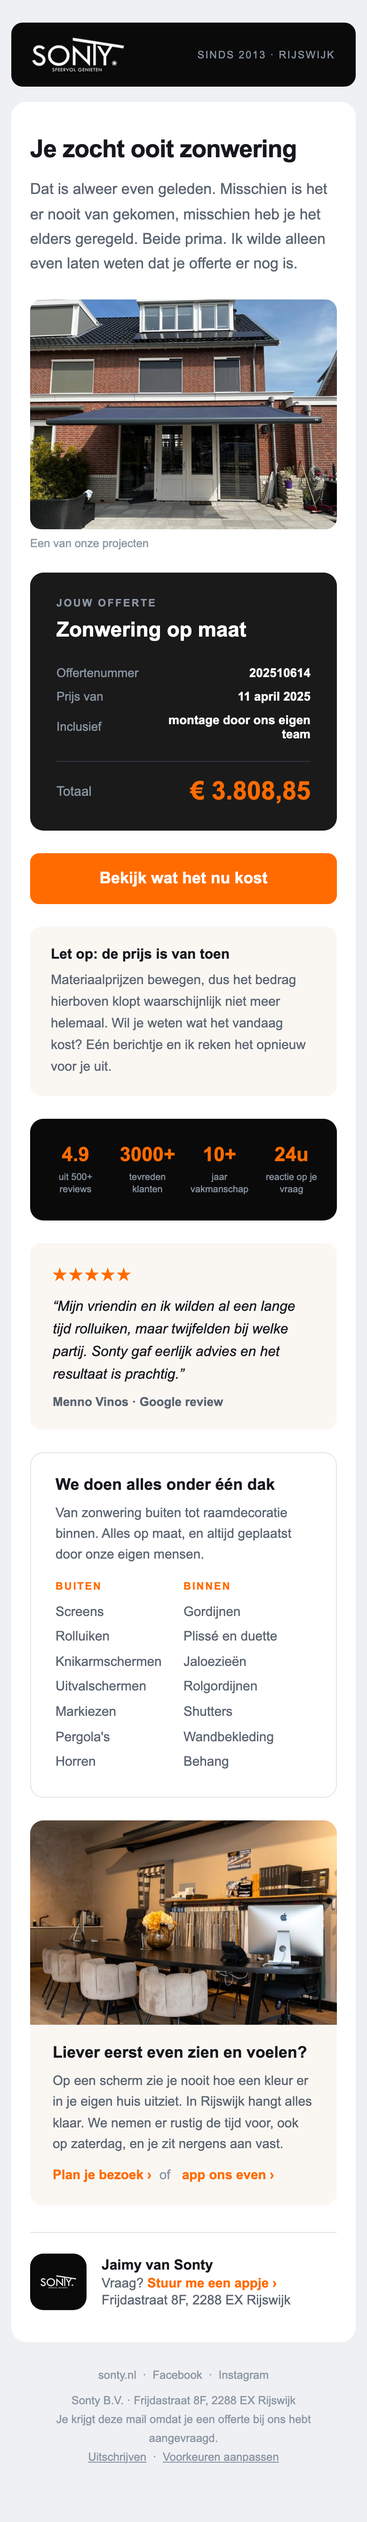
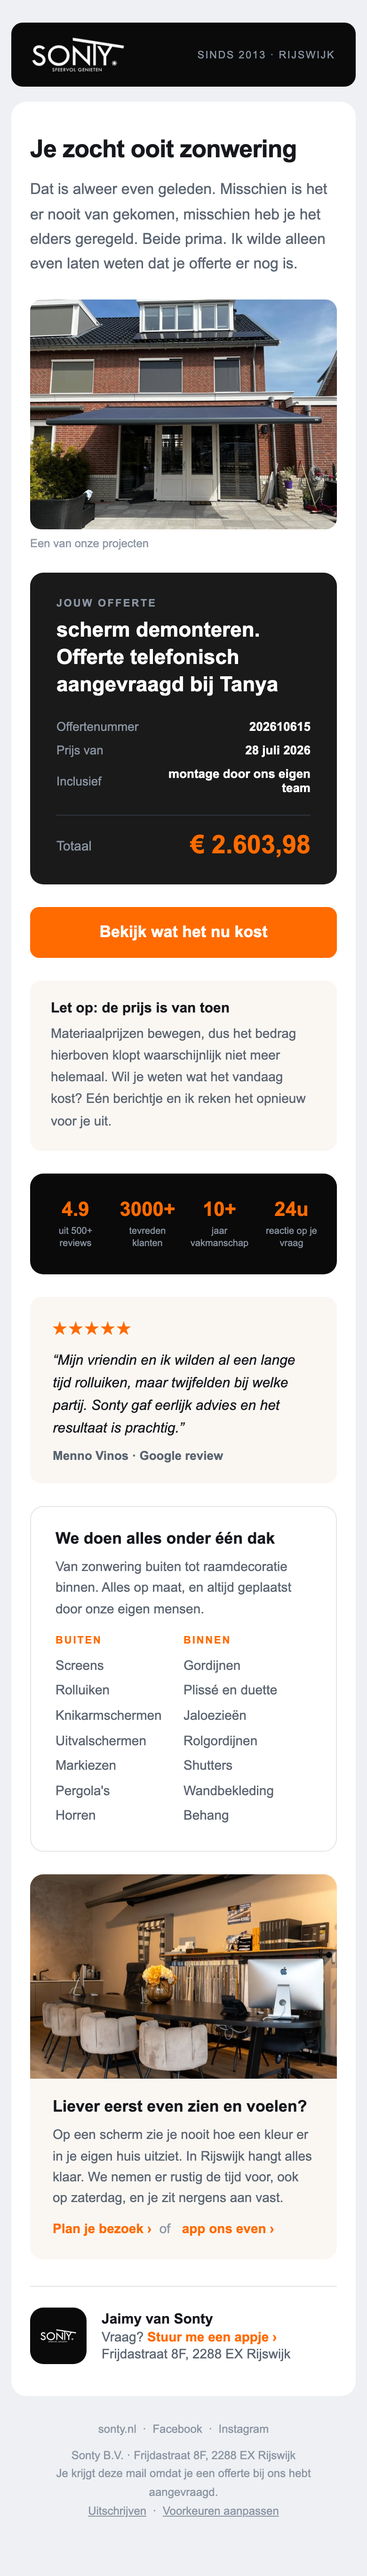
Mailmarketing: bestaand e-mailsysteem gekoppeld aan strategie-docs, verse previews, QA-ronde

Changed region(s): [[0.0615, 0.0, 0.9231, 0.9978]]

diff --git a/scripts/email/previews-echt/sonty-weer-hitte__langste-productnaam.html b/scripts/email/previews-echt/sonty-weer-hitte__langste-productnaam.html
@@ -56,26 +56,26 @@
    <tr><td class="paper" style="background:#ffffff;border-radius:16px;">
      <table role="presentation" width="100%" cellpadding="0" cellspacing="0" border="0">
        <tr><td class="pad" style="padding:34px 36px 0;">
-         <h1 class="kop t-donker" style="margin:0;font-family:Figtree,Inter,-apple-system,'Segoe UI',Arial,sans-serif;font-size:30px;line-height:1.2;font-weight:800;color:#16181d;letter-spacing:-0.5px;">Het wordt warm, Anouk</h1>
+         <h1 class="kop t-donker" style="margin:0;font-family:Figtree,Inter,-apple-system,'Segoe UI',Arial,sans-serif;font-size:30px;line-height:1.2;font-weight:800;color:#16181d;letter-spacing:-0.5px;">Het wordt warm, daar</h1>
          <p class="t-zacht" style="margin:14px 0 0;font-family:Figtree,Inter,-apple-system,'Segoe UI',Arial,sans-serif;font-size:16px;line-height:1.65;color:#5b6470;">Even een seintje: woensdag loopt het op naar 32,2 graden. Precies het weer waarvoor je destijds je offerte hebt aangevraagd.</p>
        </td></tr>
        <tr><td class="pad" style="padding:24px 36px 0;">
 <table role="presentation" width="100%" cellpadding="0" cellspacing="0" border="0" style="background:#1a1a1a;border-radius:14px;">
  <tr><td style="padding:26px 28px;font-family:Figtree,Inter,-apple-system,'Segoe UI',Arial,sans-serif;">
    <div style="color:#8b95a3;font-size:11px;letter-spacing:1.6px;text-transform:uppercase;font-weight:700;">Jouw offerte</div>
-   <div style="color:#ffffff;font-size:22px;font-weight:700;padding-top:9px;line-height:1.3;">Zonwering op maat</div>
+   <div style="color:#ffffff;font-size:22px;font-weight:700;padding-top:9px;line-height:1.3;">scherm demonteren. Offerte telefonisch aangevraagd bij Tanya</div>
    <table role="presentation" width="100%" cellpadding="0" cellspacing="0" border="0" style="padding-top:18px;">
      <tr><td style="font-family:Figtree,Inter,-apple-system,'Segoe UI',Arial,sans-serif;color:#8b95a3;font-size:13px;padding:5px 0;">Offertenummer</td>
-         <td align="right" style="font-family:Figtree,Inter,-apple-system,'Segoe UI',Arial,sans-serif;color:#ffffff;font-size:13px;font-weight:600;padding:5px 0;">202510614</td></tr>
+         <td align="right" style="font-family:Figtree,Inter,-apple-system,'Segoe UI',Arial,sans-serif;color:#ffffff;font-size:13px;font-weight:600;padding:5px 0;">202610615</td></tr>
      <tr><td style="font-family:Figtree,Inter,-apple-system,'Segoe UI',Arial,sans-serif;color:#8b95a3;font-size:13px;padding:5px 0;">Prijs van</td>
-         <td align="right" style="font-family:Figtree,Inter,-apple-system,'Segoe UI',Arial,sans-serif;color:#ffffff;font-size:13px;font-weight:600;padding:5px 0;">11 april 2025</td></tr>
+         <td align="right" style="font-family:Figtree,Inter,-apple-system,'Segoe UI',Arial,sans-serif;color:#ffffff;font-size:13px;font-weight:600;padding:5px 0;">28 juli 2026</td></tr>
      <tr><td style="font-family:Figtree,Inter,-apple-system,'Segoe UI',Arial,sans-serif;color:#8b95a3;font-size:13px;padding:5px 0;">Inclusief</td>
          <td align="right" style="font-family:Figtree,Inter,-apple-system,'Segoe UI',Arial,sans-serif;color:#ffffff;font-size:13px;font-weight:600;padding:5px 0;">montage door ons eigen team</td></tr>
    </table>
    <div style="border-top:1px solid #2e3440;margin-top:16px;padding-top:16px;">
      <table role="presentation" width="100%" cellpadding="0" cellspacing="0" border="0">
        <tr><td style="font-family:Figtree,Inter,-apple-system,'Segoe UI',Arial,sans-serif;color:#8b95a3;font-size:14px;">Totaal</td>
-           <td align="right" style="font-family:Figtree,Inter,-apple-system,'Segoe UI',Arial,sans-serif;color:#FF6B00;font-size:27px;font-weight:800;">€ 3.808,85</td></tr>
+           <td align="right" style="font-family:Figtree,Inter,-apple-system,'Segoe UI',Arial,sans-serif;color:#FF6B00;font-size:27px;font-weight:800;">€ 2.603,98</td></tr>
      </table>
    </div>
  </td></tr>
@@ -83,8 +83,8 @@
 <tr><td class="pad" style="padding:24px 36px 0;">
 <table role="presentation" cellpadding="0" cellspacing="0" border="0" style="margin:0 auto;" class="knoptabel">
  <tr><td align="center" bgcolor="#FF6B00" style="border-radius:10px;">
-  <!--[if mso]><v:roundrect xmlns:v="urn:schemas-microsoft-com:vml" xmlns:w="urn:schemas-microsoft-com:office:word" href="https://document.reuzenpanda.nl/nl/731483fa-ef6b-4aae-afcf-883ec09219dd/64ec8906-2a6a-46c8-a0e5-ef40c97f2af6/latest?pdfAction=DOCSIGN" style="height:54px;v-text-anchor:middle;width:320px;" arcsize="18%" stroke="f" fillcolor="#FF6B00"><w:anchorlock/><center style="color:#ffffff;font-family:Arial,sans-serif;font-size:17px;font-weight:bold;"><![endif]-->
-  <a href="https://document.reuzenpanda.nl/nl/731483fa-ef6b-4aae-afcf-883ec09219dd/64ec8906-2a6a-46c8-a0e5-ef40c97f2af6/latest?pdfAction=DOCSIGN" style="background:#FF6B00;border-radius:10px;color:#ffffff;display:inline-block;font-family:Figtree,Inter,-apple-system,'Segoe UI',Arial,sans-serif;font-size:17px;font-weight:700;line-height:54px;text-align:center;text-decoration:none;width:320px;-webkit-text-size-adjust:none;">Bekijk je offerte</a>
+  <!--[if mso]><v:roundrect xmlns:v="urn:schemas-microsoft-com:vml" xmlns:w="urn:schemas-microsoft-com:office:word" href="https://document.reuzenpanda.nl/nl/731483fa-ef6b-4aae-afcf-883ec09219dd/5cedf2dc-a729-49ee-8614-ffe1b22a28ba/latest?pdfAction=DOCSIGN" style="height:54px;v-text-anchor:middle;width:320px;" arcsize="18%" stroke="f" fillcolor="#FF6B00"><w:anchorlock/><center style="color:#ffffff;font-family:Arial,sans-serif;font-size:17px;font-weight:bold;"><![endif]-->
+  <a href="https://document.reuzenpanda.nl/nl/731483fa-ef6b-4aae-afcf-883ec09219dd/5cedf2dc-a729-49ee-8614-ffe1b22a28ba/latest?pdfAction=DOCSIGN" style="background:#FF6B00;border-radius:10px;color:#ffffff;display:inline-block;font-family:Figtree,Inter,-apple-system,'Segoe UI',Arial,sans-serif;font-size:17px;font-weight:700;line-height:54px;text-align:center;text-decoration:none;width:320px;-webkit-text-size-adjust:none;">Bekijk je offerte</a>
   <!--[if mso]></center></v:roundrect><![endif]-->
  </td></tr>
 </table></td></tr>

diff --git a/scripts/email/previews-echt/sonty-rp-offerte__langste-productnaam.html b/scripts/email/previews-echt/sonty-rp-offerte__langste-productnaam.html
@@ -63,19 +63,19 @@
 <table role="presentation" width="100%" cellpadding="0" cellspacing="0" border="0" style="background:#1a1a1a;border-radius:14px;">
  <tr><td style="padding:26px 28px;font-family:Figtree,Inter,-apple-system,'Segoe UI',Arial,sans-serif;">
    <div style="color:#8b95a3;font-size:11px;letter-spacing:1.6px;text-transform:uppercase;font-weight:700;">Jouw offerte</div>
-   <div style="color:#ffffff;font-size:22px;font-weight:700;padding-top:9px;line-height:1.3;">Zonwering op maat</div>
+   <div style="color:#ffffff;font-size:22px;font-weight:700;padding-top:9px;line-height:1.3;">scherm demonteren. Offerte telefonisch aangevraagd bij Tanya</div>
    <table role="presentation" width="100%" cellpadding="0" cellspacing="0" border="0" style="padding-top:18px;">
      <tr><td style="font-family:Figtree,Inter,-apple-system,'Segoe UI',Arial,sans-serif;color:#8b95a3;font-size:13px;padding:5px 0;">Offertenummer</td>
-         <td align="right" style="font-family:Figtree,Inter,-apple-system,'Segoe UI',Arial,sans-serif;color:#ffffff;font-size:13px;font-weight:600;padding:5px 0;">202510614</td></tr>
+         <td align="right" style="font-family:Figtree,Inter,-apple-system,'Segoe UI',Arial,sans-serif;color:#ffffff;font-size:13px;font-weight:600;padding:5px 0;">202610615</td></tr>
      <tr><td style="font-family:Figtree,Inter,-apple-system,'Segoe UI',Arial,sans-serif;color:#8b95a3;font-size:13px;padding:5px 0;">Prijs van</td>
-         <td align="right" style="font-family:Figtree,Inter,-apple-system,'Segoe UI',Arial,sans-serif;color:#ffffff;font-size:13px;font-weight:600;padding:5px 0;">11 april 2025</td></tr>
+         <td align="right" style="font-family:Figtree,Inter,-apple-system,'Segoe UI',Arial,sans-serif;color:#ffffff;font-size:13px;font-weight:600;padding:5px 0;">28 juli 2026</td></tr>
      <tr><td style="font-family:Figtree,Inter,-apple-system,'Segoe UI',Arial,sans-serif;color:#8b95a3;font-size:13px;padding:5px 0;">Inclusief</td>
          <td align="right" style="font-family:Figtree,Inter,-apple-system,'Segoe UI',Arial,sans-serif;color:#ffffff;font-size:13px;font-weight:600;padding:5px 0;">montage door ons eigen team</td></tr>
    </table>
    <div style="border-top:1px solid #2e3440;margin-top:16px;padding-top:16px;">
      <table role="presentation" width="100%" cellpadding="0" cellspacing="0" border="0">
        <tr><td style="font-family:Figtree,Inter,-apple-system,'Segoe UI',Arial,sans-serif;color:#8b95a3;font-size:14px;">Totaal</td>
-           <td align="right" style="font-family:Figtree,Inter,-apple-system,'Segoe UI',Arial,sans-serif;color:#FF6B00;font-size:27px;font-weight:800;">€ 3.808,85</td></tr>
+           <td align="right" style="font-family:Figtree,Inter,-apple-system,'Segoe UI',Arial,sans-serif;color:#FF6B00;font-size:27px;font-weight:800;">€ 2.603,98</td></tr>
      </table>
    </div>
  </td></tr>
@@ -83,8 +83,8 @@
 <tr><td class="pad" style="padding:24px 36px 0;">
 <table role="presentation" cellpadding="0" cellspacing="0" border="0" style="margin:0 auto;" class="knoptabel">
  <tr><td align="center" bgcolor="#FF6B00" style="border-radius:10px;">
-  <!--[if mso]><v:roundrect xmlns:v="urn:schemas-microsoft-com:vml" xmlns:w="urn:schemas-microsoft-com:office:word" href="https://document.reuzenpanda.nl/nl/731483fa-ef6b-4aae-afcf-883ec09219dd/64ec8906-2a6a-46c8-a0e5-ef40c97f2af6/latest?pdfAction=DOCSIGN" style="height:54px;v-text-anchor:middle;width:320px;" arcsize="18%" stroke="f" fillcolor="#FF6B00"><w:anchorlock/><center style="color:#ffffff;font-family:Arial,sans-serif;font-size:17px;font-weight:bold;"><![endif]-->
-  <a href="https://document.reuzenpanda.nl/nl/731483fa-ef6b-4aae-afcf-883ec09219dd/64ec8906-2a6a-46c8-a0e5-ef40c97f2af6/latest?pdfAction=DOCSIGN" style="background:#FF6B00;border-radius:10px;color:#ffffff;display:inline-block;font-family:Figtree,Inter,-apple-system,'Segoe UI',Arial,sans-serif;font-size:17px;font-weight:700;line-height:54px;text-align:center;text-decoration:none;width:320px;-webkit-text-size-adjust:none;">Bekijk je prijsindicatie</a>
+  <!--[if mso]><v:roundrect xmlns:v="urn:schemas-microsoft-com:vml" xmlns:w="urn:schemas-microsoft-com:office:word" href="https://document.reuzenpanda.nl/nl/731483fa-ef6b-4aae-afcf-883ec09219dd/5cedf2dc-a729-49ee-8614-ffe1b22a28ba/latest?pdfAction=DOCSIGN" style="height:54px;v-text-anchor:middle;width:320px;" arcsize="18%" stroke="f" fillcolor="#FF6B00"><w:anchorlock/><center style="color:#ffffff;font-family:Arial,sans-serif;font-size:17px;font-weight:bold;"><![endif]-->
+  <a href="https://document.reuzenpanda.nl/nl/731483fa-ef6b-4aae-afcf-883ec09219dd/5cedf2dc-a729-49ee-8614-ffe1b22a28ba/latest?pdfAction=DOCSIGN" style="background:#FF6B00;border-radius:10px;color:#ffffff;display:inline-block;font-family:Figtree,Inter,-apple-system,'Segoe UI',Arial,sans-serif;font-size:17px;font-weight:700;line-height:54px;text-align:center;text-decoration:none;width:320px;-webkit-text-size-adjust:none;">Bekijk je prijsindicatie</a>
   <!--[if mso]></center></v:roundrect><![endif]-->
  </td></tr>
 </table></td></tr>

diff --git a/scripts/email/previews-echt/sonty-reactivering-1__langste-productnaam.html b/scripts/email/previews-echt/sonty-reactivering-1__langste-productnaam.html
@@ -68,19 +68,19 @@
 <table role="presentation" width="100%" cellpadding="0" cellspacing="0" border="0" style="background:#1a1a1a;border-radius:14px;">
  <tr><td style="padding:26px 28px;font-family:Figtree,Inter,-apple-system,'Segoe UI',Arial,sans-serif;">
    <div style="color:#8b95a3;font-size:11px;letter-spacing:1.6px;text-transform:uppercase;font-weight:700;">Jouw offerte</div>
-   <div style="color:#ffffff;font-size:22px;font-weight:700;padding-top:9px;line-height:1.3;">Zonwering op maat</div>
+   <div style="color:#ffffff;font-size:22px;font-weight:700;padding-top:9px;line-height:1.3;">scherm demonteren. Offerte telefonisch aangevraagd bij Tanya</div>
    <table role="presentation" width="100%" cellpadding="0" cellspacing="0" border="0" style="padding-top:18px;">
      <tr><td style="font-family:Figtree,Inter,-apple-system,'Segoe UI',Arial,sans-serif;color:#8b95a3;font-size:13px;padding:5px 0;">Offertenummer</td>
-         <td align="right" style="font-family:Figtree,Inter,-apple-system,'Segoe UI',Arial,sans-serif;color:#ffffff;font-size:13px;font-weight:600;padding:5px 0;">202510614</td></tr>
+         <td align="right" style="font-family:Figtree,Inter,-apple-system,'Segoe UI',Arial,sans-serif;color:#ffffff;font-size:13px;font-weight:600;padding:5px 0;">202610615</td></tr>
      <tr><td style="font-family:Figtree,Inter,-apple-system,'Segoe UI',Arial,sans-serif;color:#8b95a3;font-size:13px;padding:5px 0;">Prijs van</td>
-         <td align="right" style="font-family:Figtree,Inter,-apple-system,'Segoe UI',Arial,sans-serif;color:#ffffff;font-size:13px;font-weight:600;padding:5px 0;">11 april 2025</td></tr>
+         <td align="right" style="font-family:Figtree,Inter,-apple-system,'Segoe UI',Arial,sans-serif;color:#ffffff;font-size:13px;font-weight:600;padding:5px 0;">28 juli 2026</td></tr>
      <tr><td style="font-family:Figtree,Inter,-apple-system,'Segoe UI',Arial,sans-serif;color:#8b95a3;font-size:13px;padding:5px 0;">Inclusief</td>
          <td align="right" style="font-family:Figtree,Inter,-apple-system,'Segoe UI',Arial,sans-serif;color:#ffffff;font-size:13px;font-weight:600;padding:5px 0;">montage door ons eigen team</td></tr>
    </table>
    <div style="border-top:1px solid #2e3440;margin-top:16px;padding-top:16px;">
      <table role="presentation" width="100%" cellpadding="0" cellspacing="0" border="0">
        <tr><td style="font-family:Figtree,Inter,-apple-system,'Segoe UI',Arial,sans-serif;color:#8b95a3;font-size:14px;">Totaal</td>
-           <td align="right" style="font-family:Figtree,Inter,-apple-system,'Segoe UI',Arial,sans-serif;color:#FF6B00;font-size:27px;font-weight:800;">€ 3.808,85</td></tr>
+           <td align="right" style="font-family:Figtree,Inter,-apple-system,'Segoe UI',Arial,sans-serif;color:#FF6B00;font-size:27px;font-weight:800;">€ 2.603,98</td></tr>
      </table>
    </div>
  </td></tr>
@@ -88,8 +88,8 @@
 <tr><td class="pad" style="padding:24px 36px 0;">
 <table role="presentation" cellpadding="0" cellspacing="0" border="0" style="margin:0 auto;" class="knoptabel">
  <tr><td align="center" bgcolor="#FF6B00" style="border-radius:10px;">
-  <!--[if mso]><v:roundrect xmlns:v="urn:schemas-microsoft-com:vml" xmlns:w="urn:schemas-microsoft-com:office:word" href="https://document.reuzenpanda.nl/nl/731483fa-ef6b-4aae-afcf-883ec09219dd/64ec8906-2a6a-46c8-a0e5-ef40c97f2af6/latest?pdfAction=DOCSIGN" style="height:54px;v-text-anchor:middle;width:320px;" arcsize="18%" stroke="f" fillcolor="#FF6B00"><w:anchorlock/><center style="color:#ffffff;font-family:Arial,sans-serif;font-size:17px;font-weight:bold;"><![endif]-->
-  <a href="https://document.reuzenpanda.nl/nl/731483fa-ef6b-4aae-afcf-883ec09219dd/64ec8906-2a6a-46c8-a0e5-ef40c97f2af6/latest?pdfAction=DOCSIGN" style="background:#FF6B00;border-radius:10px;color:#ffffff;display:inline-block;font-family:Figtree,Inter,-apple-system,'Segoe UI',Arial,sans-serif;font-size:17px;font-weight:700;line-height:54px;text-align:center;text-decoration:none;width:320px;-webkit-text-size-adjust:none;">Bekijk wat het nu kost</a>
+  <!--[if mso]><v:roundrect xmlns:v="urn:schemas-microsoft-com:vml" xmlns:w="urn:schemas-microsoft-com:office:word" href="https://document.reuzenpanda.nl/nl/731483fa-ef6b-4aae-afcf-883ec09219dd/5cedf2dc-a729-49ee-8614-ffe1b22a28ba/latest?pdfAction=DOCSIGN" style="height:54px;v-text-anchor:middle;width:320px;" arcsize="18%" stroke="f" fillcolor="#FF6B00"><w:anchorlock/><center style="color:#ffffff;font-family:Arial,sans-serif;font-size:17px;font-weight:bold;"><![endif]-->
+  <a href="https://document.reuzenpanda.nl/nl/731483fa-ef6b-4aae-afcf-883ec09219dd/5cedf2dc-a729-49ee-8614-ffe1b22a28ba/latest?pdfAction=DOCSIGN" style="background:#FF6B00;border-radius:10px;color:#ffffff;display:inline-block;font-family:Figtree,Inter,-apple-system,'Segoe UI',Arial,sans-serif;font-size:17px;font-weight:700;line-height:54px;text-align:center;text-decoration:none;width:320px;-webkit-text-size-adjust:none;">Bekijk wat het nu kost</a>
   <!--[if mso]></center></v:roundrect><![endif]-->
  </td></tr>
 </table></td></tr>

diff --git a/email-marketing/FLOW-PLAN.md b/email-marketing/FLOW-PLAN.md
@@ -1,47 +1,17 @@
 # Sonty Klaviyo flow-plan
 
-Opgesteld 2026-08-13. Sonty is lead-gen (aanvraag → prijsindicatie → akkoord → inmeten → offerte → 40% aanbetaling → montage → 60%), geen webshop. Flows volgen dus de offerte-funnel, niet een checkout-funnel. Alle copy volgens SONTY-MAILSTIJLGIDS.md.
+LET OP (2026-08-13): het echte, uitvoerende systeem staat in `~/sonty/scripts/email/` en bestond al (gebouwd 27-28 juli, oplevercheck gedraaid, akkoord-mail 6 aug bijgewerkt). DIT document is de strategielaag; de bouwinstructie per flow staat in `scripts/email/FLOWS.md` en de schrijfstijl in `scripts/email/STIJL.md` plus `SONTY-MAILSTIJLGIDS.md` hier.
 
-## Beschikbare triggers (pusht sonty-website al naar Klaviyo)
+## Wat er al staat (niet opnieuw bouwen)
 
-- `Lead Aangemaakt` (lib/klaviyo.ts via createLead)
-- `Lead Status Gewijzigd` (bord/pipeline-statuswissels)
-- `Offerte Online Verzonden` (shareOfferte; LET OP: liep nooit omdat KLAVIYO_PRIVATE_KEY in prod ontbreekt)
+- Dagelijkse datasync 06:30 (launchd nl.sonty.email-sync): RP-export → opt-outs → Klaviyo-profielen met sonty_fase (vers/lopend/koud/zeer_koud/klant), sonty_offerte_link, bedrag, product, weermoment. Ruim 12.000 profielen in segmenten Sonty | 1 t/m 9 + W1-3.
+- 18 templates in Klaviyo (A-serie offerte-opvolging, C reactivering, D cross-sell, E service/review, G welkom, RP1-5 Reuzenpanda-vervangers, W1-3 weerflows), gebouwd met eigen foto's, echte reviews, garantie 3/5/7.
+- Veiligheidsprincipes uit dat systeem: profielen NOOIT aan lijsten toevoegen (live 2024-flow triggert op lijst!), segmenten kunnen geen flow starten, sync verstuurt niets, flows handmatig in de UI bouwen en pas aan na expliciet akkoord Daimy per flow, aanzetvolgorde in FLOWS.md (G1 en RP1 eerst, reactivering als laatste in blokken van 200).
 
-## WAARSCHUWINGEN vóór er iets live gaat
+## Status akkoorden Daimy
 
-1. **Key-blocker**: KLAVIYO_PRIVATE_KEY ontbreekt in prod; events komen dus nu niet binnen. Eerst key (V2 aan Daimy), dan events verifiëren, dan pas flows.
-2. **Dubbele mails**: sonty-website heeft eigen offerte-herinneringen-cron en verzendcentrum-mails; Klaviyo-automation "offerte-mail-bij-delen" moet UIT als het verzendcentrum mailt (HANDOFF-regel). Vóór elke nieuwe flow: inventariseren wat er al mailt op dat moment in de funnel, anders krijgt de klant twee mails over hetzelfde.
-3. **Bestaand Sonty-Klaviyo-account eerst uitlezen** (klaviyo-stand-script staat klaar in ~/olivida/email-marketing/scripts, werkt op elke key) voordat er iets wordt aangepast.
-4. Nieuw automatisch gedrag = eerst scenario-lab-run (0x FOUT-STIL) + /oplevercheck.
+- 2026-08-13: key gegeven; backfill akkoord (bleek al gedaan); NIETS versturen; eerst mail-voor-mail controle door Claude (visueel, UX/UI, spelling, stijl, links) en daarna checkt Daimy elke mail zelf.
 
-## Flows in prioriteitsvolgorde
+## Wekelijkse datasturing (de bot, nog te bouwen)
 
-### 1. Offerte-opvolgflow (DE geldflow, eerste bouwkandidaat)
-Trigger: `Offerte Online Verzonden`. Stop-conditie: status akkoord of klant heeft gereageerd.
-- Mail 1 (dag 2): korte check, is alles duidelijk, uitnodiging om vragen te stellen of de showroom binnen te lopen (di/do vrije inloop).
-- Mail 2 (dag 5): grootste twijfels wegnemen: proces (planning belt binnen 5 werkdagen na akkoord), €75-regel eerlijk uitleggen, garantie 3/5/7 noemen.
-- Mail 3 (dag 10-12): vervaldatum benoemen plus de regel: nu tekenen zet de prijs vast, inmeten plannen we later in overleg. Geen kunstmatige druk, geen verzonnen korting.
-- Afstemmen met bestaande offerte-herinneringen-cron: één van beide stuurt, nooit allebei.
-
-### 2. Nieuwe-leadflow (welkom + vertrouwen)
-Trigger: `Lead Aangemaakt`, filter: nog geen offerte verzonden.
-- Mail 1 (direct): bevestiging aanvraag, wat de klant kan verwachten, wie Sonty is.
-- Mail 2 (dag 2-3): vertrouwen: echte reviews (nooit verzonnen), showroom-uitnodiging met routetip.
-- Mail 3 (dag 6): keuzehulp-insteek: waarom minimaal draaischakelaar (gaten in de muur-uitleg), solar als alternatief zonder stroom.
-
-### 3. Statusflows (trigger: `Lead Status Gewijzigd`)
-- **Akkoord**: verwachtingsmail: planning belt binnen 5 werkdagen voor de inmeetafspraak, daarna definitieve offerte en 40% aanbetaling, montage 8 tot 10 weken na aanbetaling.
-- **Afgerond (montage klaar)**: bedankmail + reviewverzoek (Google), na ~5 dagen. Garantie 3/5/7 nog eens bevestigen als naslagmail.
-
-### 4. Winback en seizoen (later, campagnelaag)
-- Oud-leads zonder akkoord: voorjaarscampagne zonwering, najaarscampagne rolluiken/isolatie.
-- Oud-klanten: cross-sell (screens erbij, horren, binnenzonwering) via segment 365 dagen na montage.
-
-### 5. Lijsthygiëne en sunset (deliverability)
-- Engaged-segmenten opzetten (90/180 dagen), campagnes alleen naar engaged.
-- Sunset: 180 dagen nooit engaged → onderdrukken; spam rate onder 0,1% houden (harde Gmail-grens 0,3%).
-
-## Wekelijkse datasturing (de bot)
-
-Wekelijks rapport (script klaviyo-week-rapport.js, werkt op elke Klaviyo-key): per flow en campagne ontvangers, click rate, conversies, omzet, RPR, unsub- en spamrate, afgezet tegen de benchmarks in KENNISBANK.md (zelfde map). Conversie-kant: koppelen aan de Sonty-conversiemeting (akkoord = inkoopbedrag in sheet, per tabblad geteld) en de mijlpalen-tijdlijn. Op basis daarvan wekelijks: welke flow-mail onderpresteert (herschrijven), welke flow ontbreekt (bijbouwen via Create Flow API, GA sinds revision 2026-07-15), welke campagne-insteek werkt (herhalen).
+Wekelijks rapport (script klaviyo-week-rapport.js in ~/olivida/email-marketing/scripts, werkt op elke key via KLAVIYO_KEY_FILE): per flow-mail en campagne ontvangers, clicks, conversies, omzet, RPR, unsub- en spamrate, afgezet tegen de benchmarks in KENNISBANK.md. Koppelen aan de Sonty-conversiemeting (akkoord = inkoopbedrag in sheet, per tabblad) en de mijlpalen-tijdlijn. Output wekelijks via Telegram met voorstellen; wijzigingen pas na akkoord.

diff --git a/HANDOFF.md b/HANDOFF.md
@@ -12,11 +12,17 @@
 - Scripts (herbruikbaar, alleen-lezen): ~/olivida/email-marketing/scripts/klaviyo-stand.js
   en klaviyo-week-rapport.js (reporting-API per flow/campagne met omzet en spamrate).
 - Klaviyo Create Flow API is GA (revision 2026-07-15): bot kan zelf flows bouwen, 100/dag.
-- **BLOCKERS**: V1 aan Daimy (doel = Sonty, Olivida of allebei?) en V2 (Sonty
-  KLAVIYO_PRIVATE_KEY ontbreekt overal, daardoor kwamen ook nooit events/offerte-mails
-  aan; key nodig uit Klaviyo-dashboard). Olivida-Klaviyo draait al vol (17 flows van
-  Fleur/MIJU, NIET aanraken zonder akkoord); stand in
-  ~/olivida/email-marketing/onderzoek/klaviyo-stand-2026-08-13.txt.
+- **Key gekregen van Daimy (13-08)**: ~/sonty/scripts/.klaviyo-private-key.txt. Daarna
+  ONTDEKT: het systeem bestond al in scripts/email/ (27-28 juli, launchd-sync 06:30,
+  12k profielen in segmenten, 18 templates actueel in Klaviyo, flows bewust UIT, zie
+  scripts/email/FLOWS.md). Memory-index had er geen pointer naar → nu wel
+  (project_sonty_email). Backfill die Daimy vroeg was dus al gedaan.
+- **Opdracht Daimy 13-08**: alles mag ingericht, maar NIETS versturen; eerst controleert
+  Claude elke mail (visueel, UX/UI, spelling, stijl, links), daarna checkt Daimy mail
+  voor mail. Status: 18 templates vers gerenderd (72 previews + 15 randgevallen),
+  stijlcheck/linkcheck/beeldcheck groen, 3 adversariële reviewers gedraaid.
+- Olivida-Klaviyo draait al vol (17 flows van Fleur/MIJU, NIET aanraken zonder akkoord);
+  stand in ~/olivida/email-marketing/onderzoek/klaviyo-stand-2026-08-13.txt.
 
 ## 13-08: BOEKEN LOOPT NU VIA MICROSOFT BOOKINGS — DE ENIGE JUISTE MANIER
 - **Les van vandaag (grote fout hersteld)**: de planner maakte kale agenda-afspraken.
